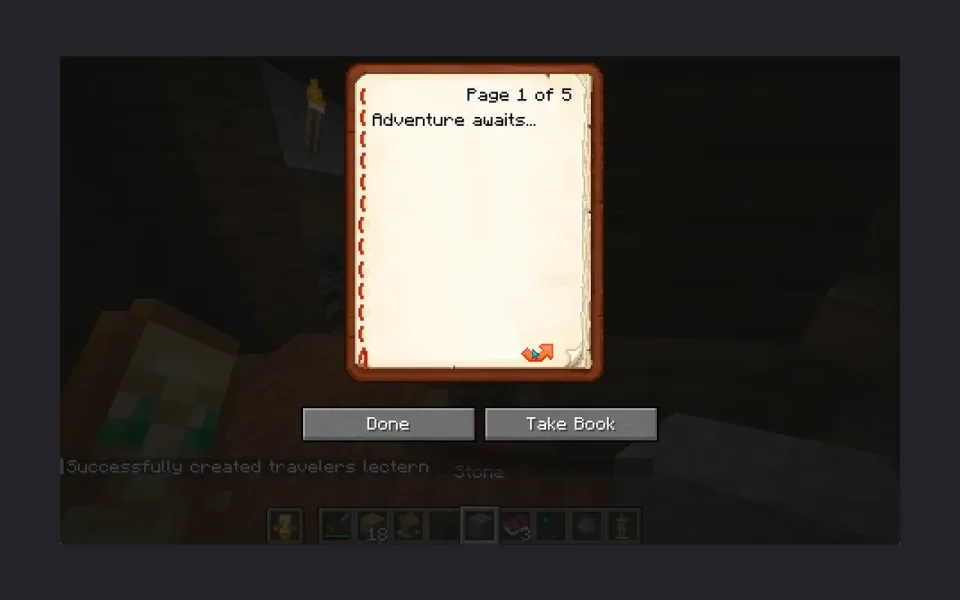
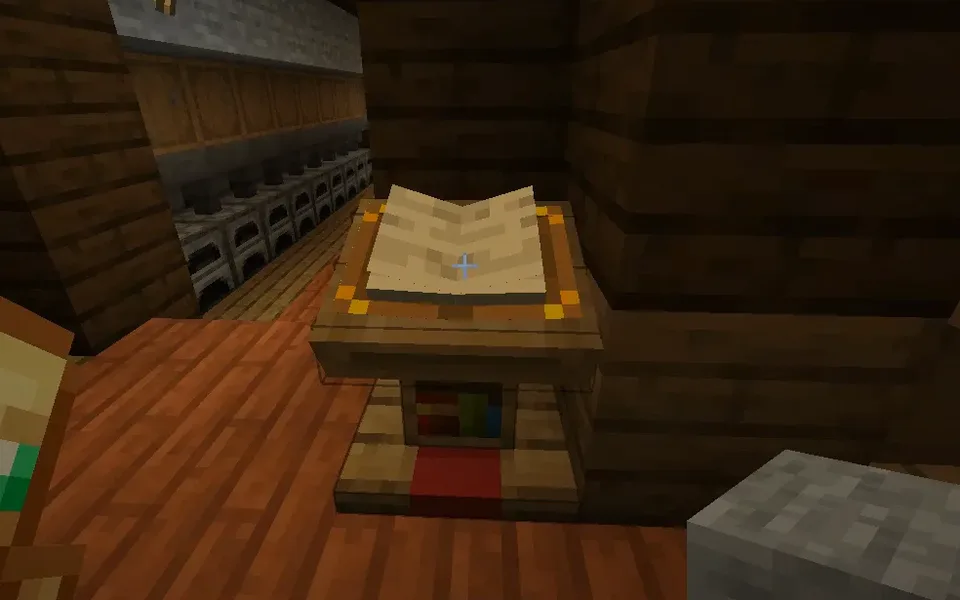
Minecraft versions draft: the Lectern card shows the lectern, not its book screen
The Traveler's Lectern card used its listing's featured image, the book
screen, which is nearly the same picture as Traveler's Journal's. It now
shows the lectern holding its book (gallery shot 6, cropped to 16:10
around the block), with alt text to match.

Session: PublicationMaster

diff --git a/members/gbtilabs/posts/what-is-the-most-used-version-of-minecraft-java/index.md b/members/gbtilabs/posts/what-is-the-most-used-version-of-minecraft-java/index.md
@@ -163,7 +163,7 @@ meta: Minecraft 1.21.1
 link: https://gbti.network/projects/travelers-journal/
 label: See the plugin
 ---
-![A Traveler's Lectern book with a Take Book button](./images/travelers-lectern.webp)
+![A Traveler's Lectern holding its open book](./images/travelers-lectern.webp)
 title: Traveler's Lectern
 text: Lecterns whose book comes back after a player takes it.
 meta: Minecraft 1.20 to 1.20.4, 1.21 to 1.21.11, 26.1 to 26.3
